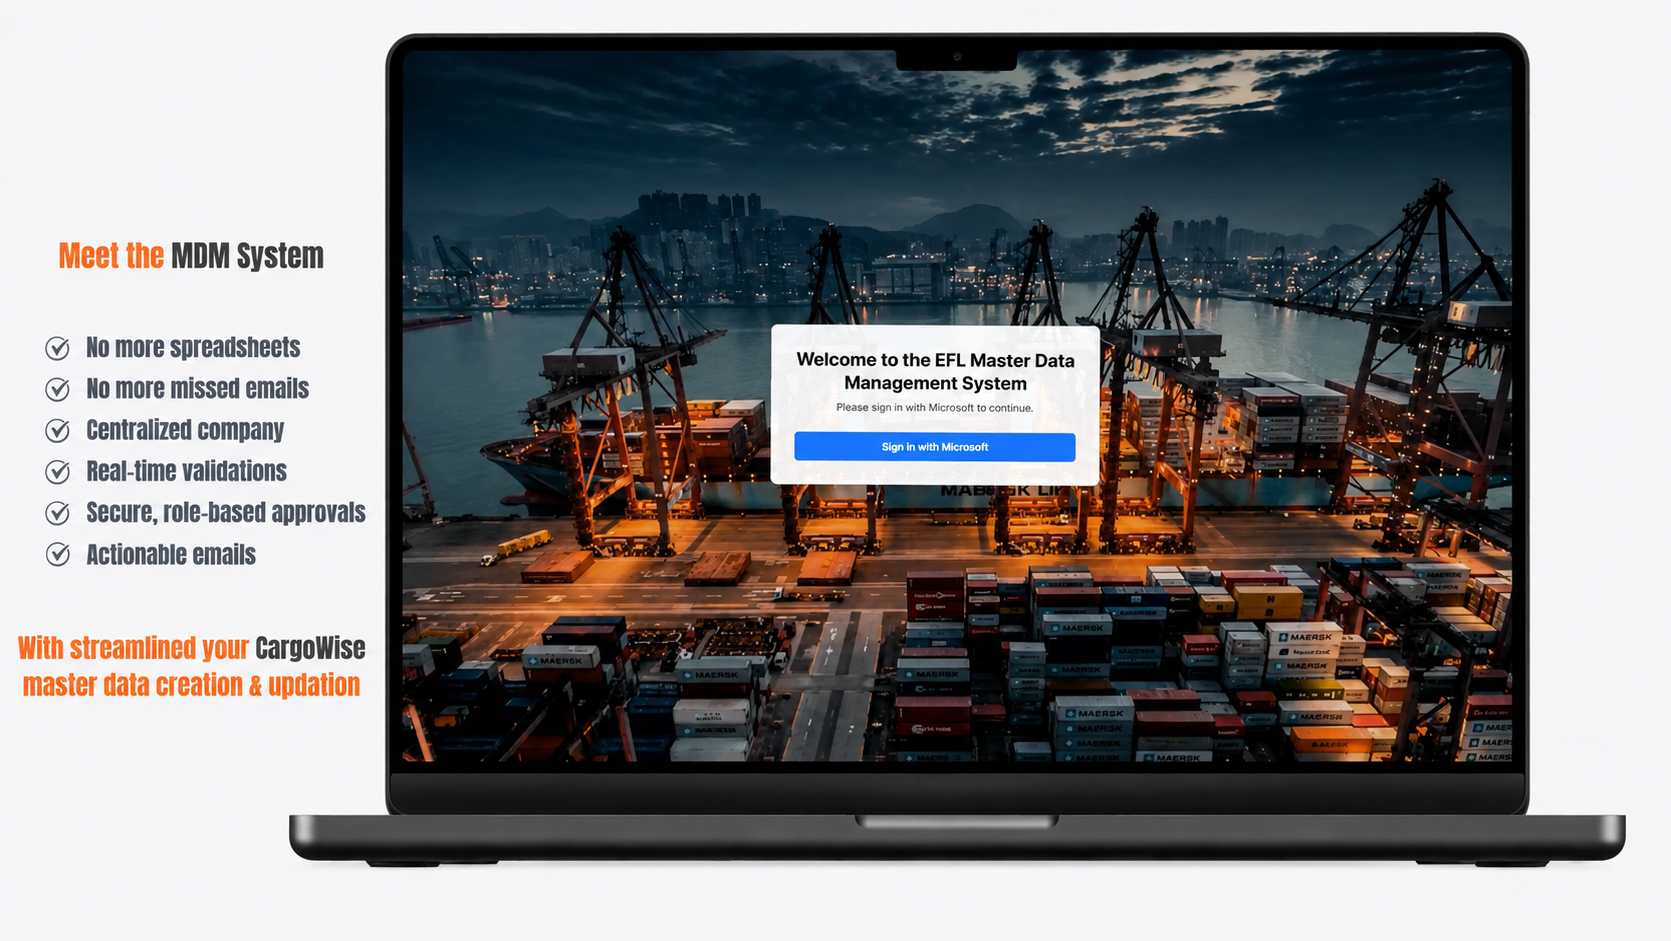
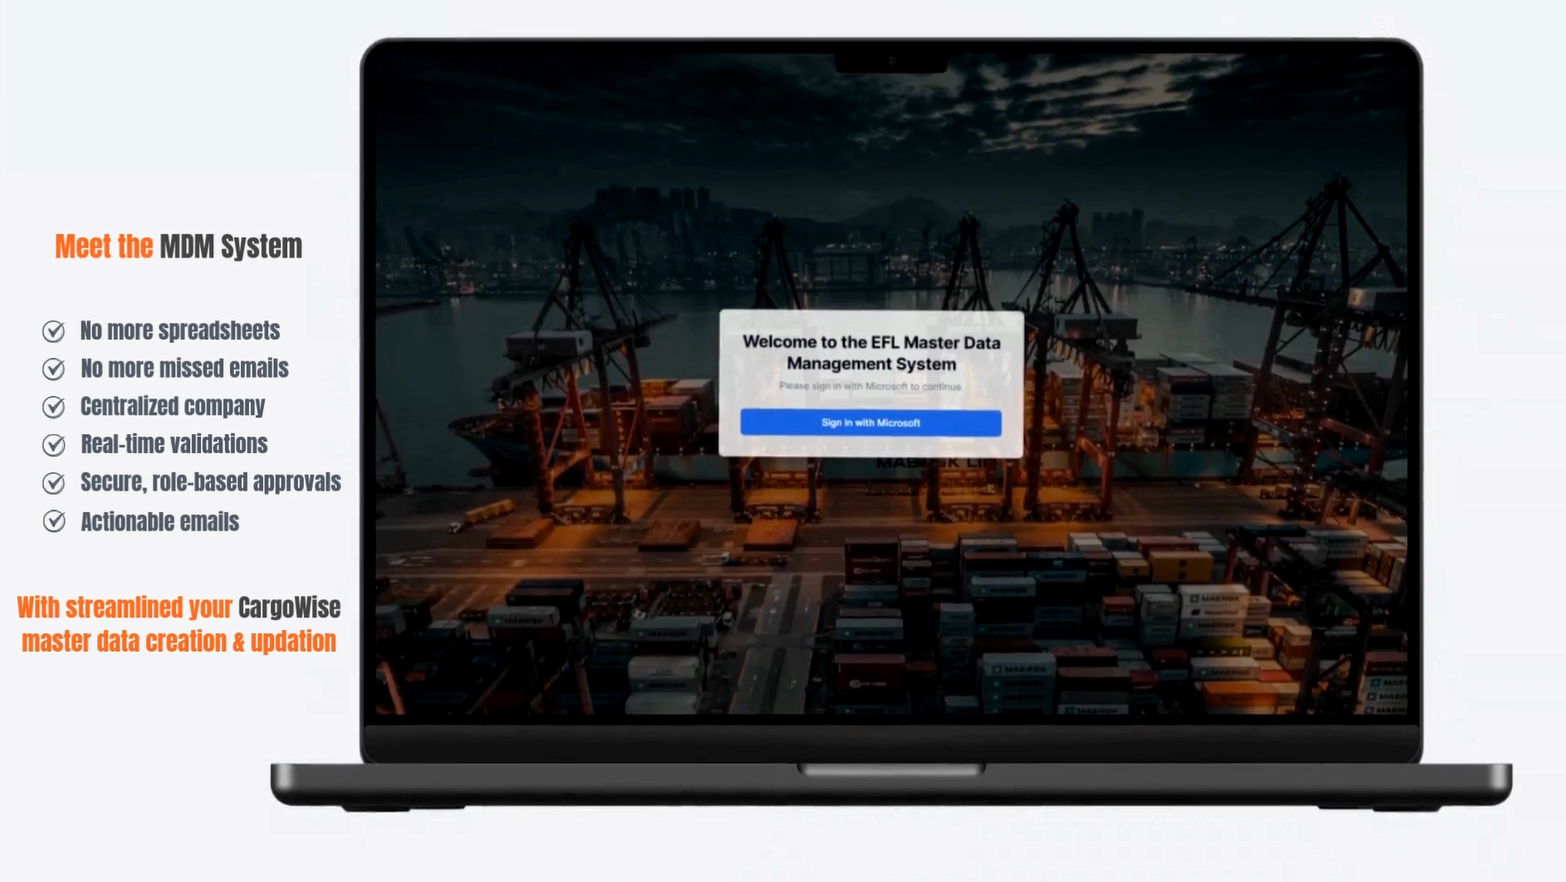
Update

diff --git a/src/features/projects.config.ts b/src/features/projects.config.ts
@@ -29,7 +29,7 @@ export const portfolioProjects: PortfolioProject[] = [
     summary:
       "Developed a Sri Lanka-specific MDM workflow application that digitalized master data request submission, approval, SCM review, MDM processing, documentation, audit history, and finalization.",
     description:
-      "A production MDM workflow system for EFL Sri Lanka that replaced Excel and email-based request handling with structured validation, approvals, traceability, and controlled finalization.",
+      "A production MDM workflow system for a Sri Lankan operation that replaced Excel and email-based request handling with structured validation, approvals, traceability, and controlled finalization.",
     image: "/projects/Sri Lanka Master Data Management System.png",
     demoVideos: [
       {
@@ -41,15 +41,15 @@ export const portfolioProjects: PortfolioProject[] = [
     ],
     content: `## About
 
-The Sri Lanka Master Data Management System was a production web application developed specifically for EFL's Sri Lanka operation. It digitalized the local process for requesting, reviewing, approving, and finalizing master data changes used within CargoWise.
+The Sri Lanka Master Data Management System was a production web application developed specifically for a Sri Lankan operation. It digitalized the local process for requesting, reviewing, approving, and finalizing master data changes used within CargoWise.
 
-The system supported both new master data creation and updates to existing master data, replacing a heavily manual process based on Excel files, email communication, and repeated follow-ups. It was designed around Sri Lanka-specific companies, departments, approval responsibilities, validation requirements, and operational procedures.
+The system supported both new master data creation and updates to existing master data, replacing a heavily manual process based on Excel files, email communication, and repeated follow-ups. It was designed around Sri Lanka-specific organizations, departments, approval responsibilities, validation requirements, and operational procedures.
 
 This solution was intentionally built for the local operating model and did not support the configurable, multi-country requirements of the current Global MDM platform.
 
 ## Objective
 
-The project aimed to establish a controlled and traceable process for managing master data requests across the Sri Lanka operation.
+The project aimed to establish a controlled and traceable process for managing master data requests across the Sri Lankan operation.
 
 The main objectives were to:
 
@@ -65,9 +65,9 @@ The main objectives were to:
 
 I designed and developed a centralized, workflow-based MDM application that managed the complete request lifecycle, from initial submission through business approval, SCM review, MDM processing, and finalization.
 
-The application provided structured forms with conditional validation based on the request type, account group, organization, country, and business requirements. Requests were automatically directed to the appropriate approvers according to Sri Lanka's operating rules.
+The application provided structured forms with conditional validation based on the request type, account group, organization, country, and business requirements. Requests were automatically directed to the appropriate approvers according to the local operating rules.
 
-Where SCM approval was required for a Sri Lanka request, the workflow prevented the request from bypassing SCM and reaching MDM without the necessary review.
+Where SCM approval was required for a request, the workflow prevented the request from bypassing SCM and reaching MDM without the necessary review.
 
 The solution included:
 
@@ -93,7 +93,7 @@ Before the application, request details, supporting files, approvals, and operat
 
 The implemented system created one controlled platform where users could submit requests, approvers could review the relevant information, SCM could complete required operational checks, and the MDM team could process and finalize approved records.
 
-Although the system was highly effective for Sri Lanka, its workflow, configuration, and business rules were closely aligned with the local operation. The experience and operational knowledge gained from this project later provided a strong foundation for planning the current Global MDM platform.
+Although the system was highly effective for the local operation, its workflow, configuration, and business rules were closely aligned with Sri Lanka-specific requirements. The experience and operational knowledge gained from this project later provided a strong foundation for planning the current Global MDM platform.
 
 ## Key Work
 
@@ -111,7 +111,7 @@ Although the system was highly effective for Sri Lanka, its workflow, configurat
 - Added audit logs and approval histories to provide traceability for each request.
 - Built administrative functionality for managing users, roles, and approval assignments.
 - Supported the deployment and production operation of the application using PostgreSQL, Docker, and Azure.
-- Prepared the system structure and operational controls required for adoption by the Sri Lanka teams.
+- Prepared the system structure and operational controls required for adoption by local teams.
 - Produced a project demonstration video presenting the complete end-to-end automation process.
 
 ## Business Value
@@ -122,7 +122,7 @@ Although the system was highly effective for Sri Lanka, its workflow, configurat
 
 **Faster request processing:** Automated routing and clear ownership reduced delays caused by uncertainty about who needed to review or process a request.
 
-**Stronger process control:** Mandatory workflow stages ensured that Sri Lanka-specific business and SCM approvals were completed before requests reached MDM.
+**Stronger process control:** Mandatory workflow stages ensured that the required business and SCM approvals were completed before requests reached MDM.
 
 **Greater visibility:** Users and approvers could see the current request status, pending action, comments, and previous decisions from one application.
 
@@ -132,7 +132,7 @@ Although the system was highly effective for Sri Lanka, its workflow, configurat
 
 **Reduced operational risk:** The system minimized incomplete submissions, approval bypasses, inconsistent request formats, and uncontrolled master data changes.
 
-**Foundation for future transformation:** The project demonstrated the value of workflow-based master data governance within the Sri Lanka operation and provided practical experience that informed the design of the later Global MDM initiative.`,
+**Foundation for future transformation:** The project demonstrated the value of workflow-based master data governance within a local operation and provided practical experience that informed the design of the later Global MDM initiative.`,
     date: "2026",
     likes: 0,
     featured: true,
@@ -148,7 +148,6 @@ Although the system was highly effective for Sri Lanka, its workflow, configurat
       "TensorFlow",
       "Fast api",
       "Firebase Realtime Database",
-
       "Arduino",
       "NodeMCU ESP8266",
       "MAX30102",
@@ -316,7 +315,7 @@ The research evaluation reported 72.5% model accuracy and an average 74.3% align
     image: "/projects/Efl Lunch Booking Power App.png",
     content: `## About
 
-EFL Lunch Booking App is a Power App introduced to improve the daily lunch reservation process. Lunch reservations were previously managed using a fixed number of employees in each department, but those counts could change and had to be communicated manually to the kitchen.
+Lunch Booking App is a Power App introduced to improve the daily lunch reservation process. Lunch reservations were previously managed using a fixed number of employees in each department, but those counts could change and had to be communicated manually to the kitchen.
 
 ## Objective
 
@@ -481,8 +480,8 @@ The workflow reduces manual file handling time, lowers naming errors, and improv
   },
   {
     id: 7,
-    slug: "michelin-job-automation",
-    title: "Michelin Job Automation",
+    slug: "logistics-job-creation-automation",
+    title: "Logistics Job Creation Automation",
     type: "Desktop Logistics Automation",
     technologies: [
       "Desktop Application",
@@ -492,19 +491,19 @@ The workflow reduces manual file handling time, lowers naming errors, and improv
       "Outlook Email",
     ],
     summary:
-      "Developed a desktop-based logistics automation workflow that streamlines CargoWise job creation for Michelin Ocean Export shipments using Cargo Feeder, CargoSync, XML generation, and Outlook confirmations.",
+      "Developed a desktop-based logistics automation workflow that streamlines CargoWise job creation for customer-specific ocean export shipments using structured Excel input, XML generation, automated processing, and Outlook confirmations.",
     description:
-      "A controlled Michelin shipment job-creation automation that validates booking data, generates CargoWise-compatible XML files, prevents incomplete or duplicate submissions, and sends confirmation emails.",
+      "A controlled ocean-export shipment job-creation automation that validates booking data, generates CargoWise-compatible XML files, prevents incomplete or duplicate submissions, and sends confirmation emails.",
     image: "/projects/Michelin Job Automation.png",
     content: `## About
 
-Michelin Job Automation is a desktop-based logistics automation solution developed to streamline CargoWise job creation for Michelin Ocean Export shipments. The solution combines a macro-enabled Cargo Feeder Excel template, the custom-built CargoSync application, XML generation, CargoWise integration, and Outlook-based confirmation emails into one controlled workflow.
+Logistics Job Creation Automation is a desktop-based solution developed to streamline CargoWise job creation for customer-specific ocean export shipments. The solution combines a macro-enabled Excel feeder template, a custom desktop processing application, XML generation, CargoWise integration, and Outlook-based confirmation emails into one controlled workflow.
 
-Users enter shipment and booking information into the Cargo Feeder template, validate the required fields, and initiate processing through CargoSync. The application converts completed booking records into the required XML structure and sends them to CargoWise for automated job creation.
+Users enter shipment and booking information into the structured Excel template, validate the required fields, and initiate processing through the desktop application. The application converts completed booking records into the required XML structure and sends them to CargoWise for automated job creation.
 
 ## Objective
 
-The objective of the project was to reduce the time, effort, and operational risk associated with manually creating Michelin shipment jobs in CargoWise.
+The objective of the project was to reduce the time, effort, and operational risk associated with manually creating customer shipment jobs in CargoWise.
 
 The automation was designed to:
 
@@ -519,46 +518,46 @@ The automation was designed to:
 
 I developed a structured automation workflow using two primary components.
 
-Cargo Feeder acts as the controlled data-entry and validation layer. It provides searchable dropdowns, predefined Michelin-specific values, mandatory-field validation, and booking-status indicators. Records are marked as Completed only when the required data has been entered correctly. Incomplete records remain blocked from XML submission until the identified issues are corrected.
+The Excel feeder template acts as the controlled data-entry and validation layer. It provides searchable dropdowns, predefined customer-specific values, mandatory-field validation, and booking-status indicators. Records are marked as Completed only when the required data has been entered correctly. Incomplete records remain blocked from XML submission until the identified issues are corrected.
 
-CargoSync acts as the processing and integration layer. It receives the selected Cargo Feeder workbook, generates the required XML files, and sends them to CargoWise. After processing, the application displays a summary showing the number of shipments detected, successfully processed, and not completed.
+The desktop processing application acts as the processing and integration layer. It receives the selected workbook, generates the required XML files, and sends them to CargoWise. After processing, the application displays a summary showing the number of shipments detected, successfully processed, and not completed.
 
 The workflow also includes Outlook-based submission verification, CargoWise job-creation confirmations, and XML attachments for operational reference.
 
 ## Summary
 
-Michelin Job Automation transformed a repetitive manual CargoWise job-creation process into a controlled, validated, and traceable automation workflow.
+The solution transformed a repetitive manual CargoWise job-creation process into a controlled, validated, and traceable automation workflow.
 
-The solution guides users from booking-data preparation through XML generation, CargoWise submission, and confirmation. It includes safeguards for incomplete records, duplicate submissions, and incorrect template usage while maintaining a practical interface for operational users.
+It guides users from booking-data preparation through XML generation, CargoWise submission, and confirmation. It includes safeguards for incomplete records, duplicate submissions, and incorrect template usage while maintaining a practical interface for operational users.
 
-I also created a project demonstration video to explain the complete workflow, show the Cargo Feeder and CargoSync interfaces, and demonstrate how shipment data is validated, processed, and submitted to CargoWise.
+I also created a project demonstration video to explain the complete workflow and demonstrate how shipment data is validated, processed, and submitted to CargoWise.
 
 ## Key Work
 
-- Designed and developed the CargoSync desktop application for processing Michelin shipment records.
-- Created the macro-enabled Cargo Feeder Excel template for structured booking-data entry.
+- Designed and developed a desktop application for processing customer shipment records.
+- Created a macro-enabled Excel template for structured booking-data entry.
 - Implemented mandatory-field validation and Completed / Not Completed booking-status indicators.
 - Added searchable dropdowns and automatic code mapping for carriers, consignees, destinations, job operators, movement types, and other CargoWise fields.
-- Configured Michelin-specific default values to reduce repeated manual data entry.
-- Developed the conversion of Cargo Feeder booking data into CargoWise-compatible XML files.
+- Configured customer-specific default values to reduce repeated manual data entry.
+- Developed the conversion of booking data into CargoWise-compatible XML files.
 - Implemented shipment-processing summaries showing detected, completed, and incomplete records.
-- Added duplicate-submission controls to prevent the same processed Cargo Feeder file from being submitted again.
+- Added duplicate-submission controls to prevent the same processed workbook from being submitted more than once.
 - Integrated Outlook-based XML delivery, summary reporting, and CargoWise confirmation emails.
-- Supported both new job creation and the reuse of an existing CargoWise job through the optional HBL workflow.
-- Prepared the complete user SOP covering data entry, validation, submission, verification, and troubleshooting.
+- Supported both new job creation and the reuse of an existing CargoWise job through an optional HBL workflow.
+- Prepared a complete user SOP covering data entry, validation, submission, verification, and troubleshooting.
 - Produced a project demonstration video presenting the complete end-to-end automation process.
 
 ## Business Value
 
-**Reduced manual effort:** The automation removes the need to manually recreate complete Michelin shipment records directly inside CargoWise.
+**Reduced manual effort:** The automation removes the need to manually recreate complete customer shipment records directly inside CargoWise.
 
 **Improved data accuracy:** Mandatory-field validation, controlled dropdowns, and predefined values reduce typing errors, missing information, and incorrect CargoWise codes.
 
-**Faster job creation:** Multiple shipment records can be prepared in the Cargo Feeder template and processed through a consistent XML-based workflow.
+**Faster job creation:** Multiple shipment records can be prepared in the Excel template and processed through a consistent XML-based workflow.
 
 **Lower operational risk:** Incomplete records are blocked from submission, while duplicate-submission controls reduce the risk of creating redundant jobs.
 
-**Standardized operations:** All users follow the same structured process for data entry, validation, XML generation, and CargoWise submission.
+**Standardized operations:** Users follow the same structured process for data entry, validation, XML generation, and CargoWise submission.
 
 **Improved traceability:** Processing summaries, Sent Items verification, CargoWise confirmation emails, and XML attachments provide clear evidence of each submission.
 
@@ -583,7 +582,10 @@ export function getPortfolioProjectBySlug(slug: string) {
 
 export function searchPortfolioProjects(query: string) {
   const searchTerm = query.trim().toLowerCase();
-  if (!searchTerm) return listedPortfolioProjects;
+
+  if (!searchTerm) {
+    return listedPortfolioProjects;
+  }
 
   return listedPortfolioProjects.filter((project) => {
     const searchable = [